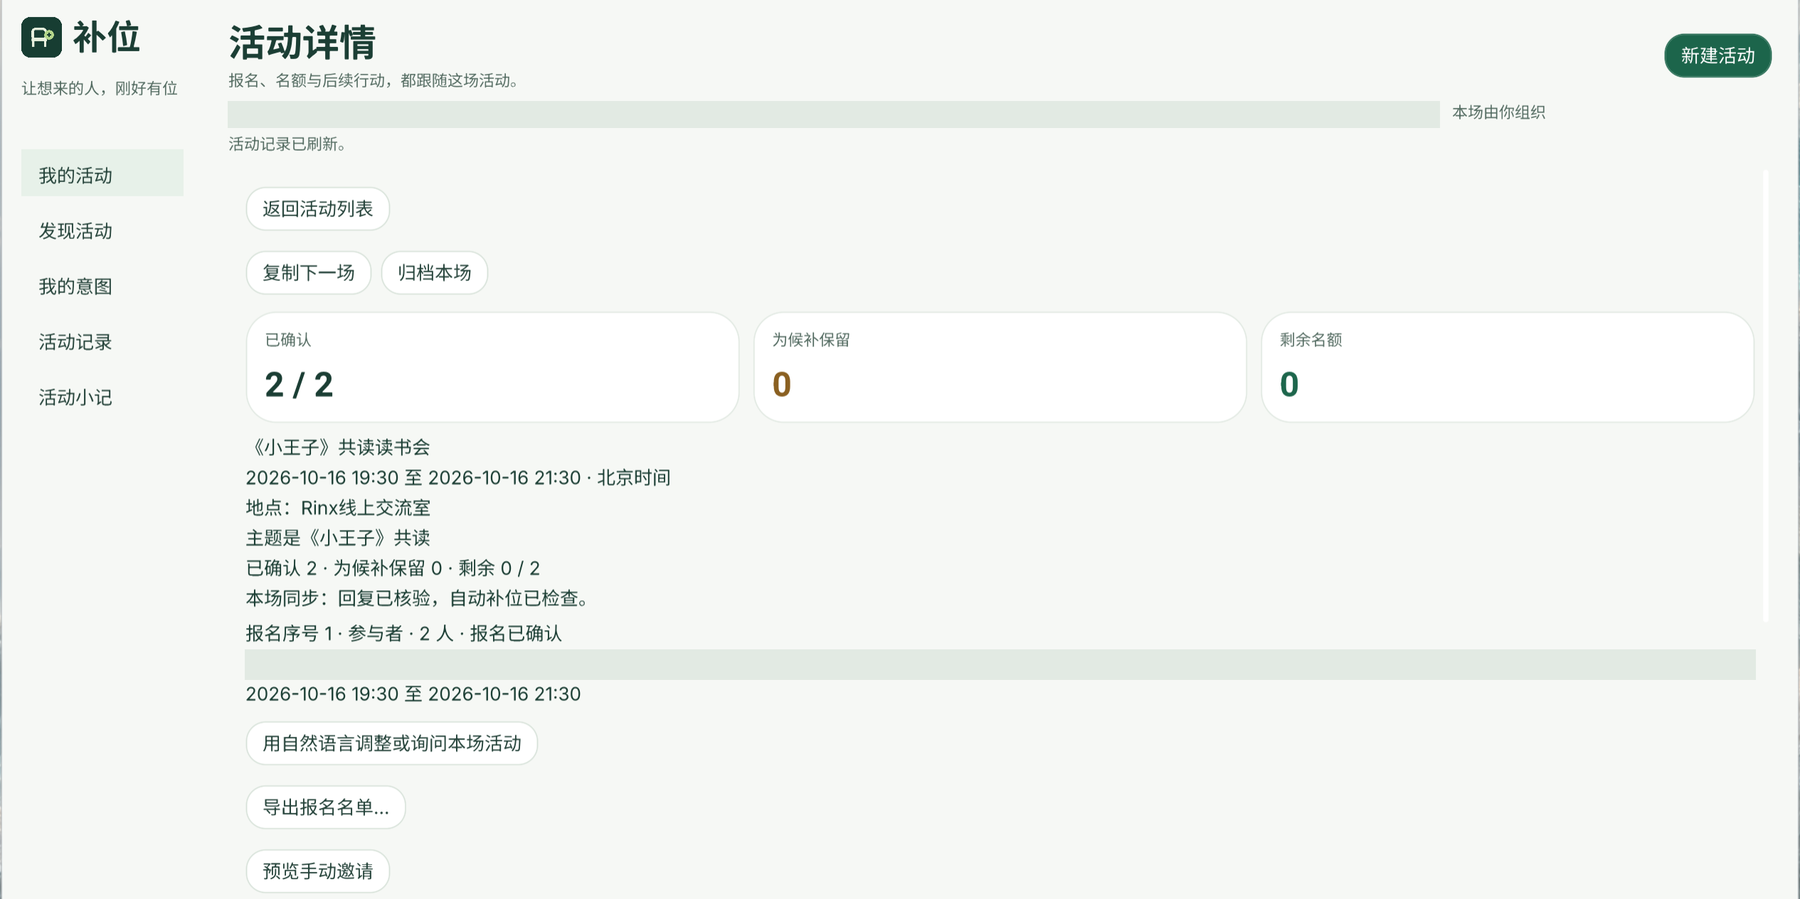
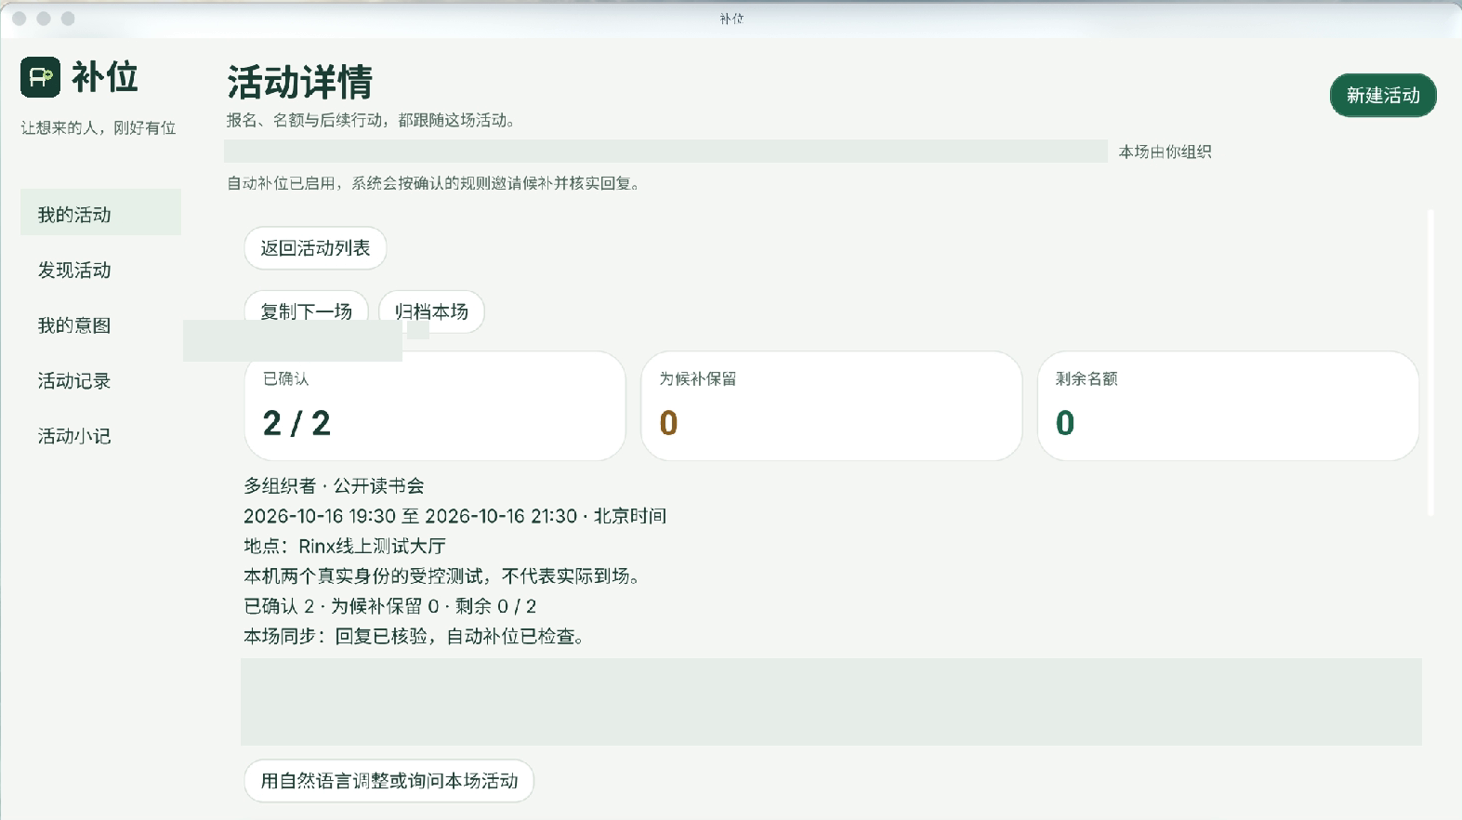
Bind native walkthrough and verified results for v0.2.12 preview

diff --git a/tools/continuous_capture.py b/tools/continuous_capture.py
@@ -39,7 +39,10 @@ def frame(ui, role, caption, elapsed, font_path):
     from PIL import Image, ImageDraw, ImageFont
     tree = ui.tree()
     window = ui.window(tree)
-    picture = Image.open(io.BytesIO(ui.get("g", w=window["i"], raw=1))).convert("RGB")
+    # Bound native PNG work to the delivered video's width. Capturing a high-DPI
+    # window at full resolution only to shrink it can stall the capture cadence.
+    scale = min(1.0, 1600 / window.get("px", window["sz"])[0])
+    picture = Image.open(io.BytesIO(ui.get("g", w=window["i"], scale=scale, raw=1))).convert("RGB")
     width, height = window["sz"]
     sx, sy = picture.width/width, picture.height/height
     draw = ImageDraw.Draw(picture)
@@ -73,7 +76,7 @@ def record(args):
     for client in clients.values(): client.window()
     args.output.parent.mkdir(parents=True, exist_ok=True)
     args.metadata.parent.mkdir(parents=True, exist_ok=True)
-    command = [str(args.ffmpeg), "-hide_banner", "-loglevel", "error", "-f", "rawvideo", "-pix_fmt", "rgb24", "-s", "1600x1000", "-framerate", str(args.fps), "-i", "pipe:0", "-an", "-c:v", "libx264", "-preset", "veryfast", "-crf", "20", "-pix_fmt", "yuv420p", "-movflags", "+faststart", str(args.output)]
+    command = [str(args.ffmpeg), "-hide_banner", "-loglevel", "error", "-f", "rawvideo", "-pix_fmt", "rgb24", "-s", "1600x1000", "-framerate", str(args.fps), "-i", "pipe:0", "-an", "-c:v", "libx264", "-threads", "2", "-preset", "ultrafast", "-crf", "20", "-pix_fmt", "yuv420p", "-movflags", "+faststart", str(args.output)]
     process = subprocess.Popen(command, stdin=subprocess.PIPE, stderr=subprocess.PIPE)
     started = time.monotonic()
     samples = []

diff --git a/README.en.md b/README.en.md
@@ -14,9 +14,9 @@ Participants use their own Rinx identities. Verified server receipts distinguish
 - Follow suggestions through persistent tasks. Editing or pausing a goal invalidates its unexecuted previews while preserving existing receipts.
 - Use AI beside each task for editable activity drafts, sign-up clarification and summaries grounded in verified records.
 
-[Download for Windows](https://github.com/WeiR-h/buwei/releases/latest) · [Chinese guide](docs/FIRST-RUN.md) · [Privacy](docs/PRIVACY.md) · [Support](https://github.com/WeiR-h/buwei/issues)
+[Download v0.2.12 Windows preview](https://github.com/WeiR-h/buwei/releases/tag/v0.2.12) · [Stable release](https://github.com/WeiR-h/buwei/releases/latest) · [Chinese guide](docs/FIRST-RUN.md) · [Privacy](docs/PRIVACY.md) · [Support](https://github.com/WeiR-h/buwei/issues)
 
-**v0.2.11** uses the official desktop RC6 host, a clearer activity workspace, focused planning and contextual registration controls. Each account can organize its own activities and join other people's activities.
+**v0.2.12 preview** uses the official desktop RC6 host and displays the exact dates, availability and party size in each sign-up draft. It adds faster journal recovery queries and independently reproducible verification records. Each account can organize its own activities and join other people's activities.
 
 Organizers can describe an activity, edit its plan, confirm creation, and separately confirm community publication. Members select a published activity, request room access, and confirm their own registration. CSV exports use a verified organizer snapshot and protect text from spreadsheet formula interpretation. See the [community guide](docs/COMMUNITY.md).
 
@@ -24,7 +24,7 @@ BuWei uses pinned official OctoSense desktop RC6 and Rinx 1.1.0 sources and ship
 
 Optional Windows tray duty continues synchronization while the computer and application run with valid authorization. Explicit feedback updates only the chosen scope. Recurring activity drafts require fresh confirmation of their date, location and capacity. [Goals and assistance](docs/INTENTIONS.md) · [Submission and historical versions](docs/SUBMISSION.md).
 
-[Watch the 110-second walkthrough](https://github.com/WeiR-h/buwei/releases/download/v0.2.11/BuWei-v0.2.11-Demo.mp4): two actual Rinx identities complete planning, publication, activity selection, registration, automatic invitation, acceptance, roster export and cancellation. Runtime requirements: Windows 10/11 x64 and the Microsoft Visual C++ v14 x64 runtime.
+[Watch the 60-second continuous native recording](https://github.com/WeiR-h/buwei/releases/download/v0.2.12/BuWei-v0.2.12-demo.mp4): two real local Rinx accounts complete a natural-language sign-up, rule-based invitation, personal acceptance and final organizer verification. Capture preserves elapsed time and covers private identifiers. [Planning, community publication and export walkthrough (v0.2.11)](https://github.com/WeiR-h/buwei/releases/download/v0.2.11/BuWei-v0.2.11-Demo.mp4). Runtime requirements: Windows 10/11 x64 and the Microsoft Visual C++ v14 x64 runtime.
 
 ## Three steps to start
 

diff --git a/README.md b/README.md
@@ -27,9 +27,9 @@
 
 ## 下载
 
-[下载正式 Windows 版本](https://github.com/WeiR-h/buwei/releases/latest)
+[下载 v0.2.12 Windows 验证版](https://github.com/WeiR-h/buwei/releases/tag/v0.2.12) · [正式版](https://github.com/WeiR-h/buwei/releases/latest)
 
-**v0.2.11** 使用官方桌面 RC6，提供统一活动工作台、自然语言策划和按本场身份显示的报名操作。
+**v0.2.12 验证版**使用官方桌面 RC6，直接展示本次报名草稿的日期、时段与同行人数，增加恢复查询优化和可独立复跑的验证记录。
 
 应用使用官方 OctoSense 桌面 RC6 与 Rinx 1.1.0 的固定源码，提供组织者和参与者入口。成员使用自己的 Rinx 身份报名和回复，组织者核验结果后显示最终报名状态。
 
@@ -39,7 +39,9 @@
 
 [活动策划、社群报名与名单导出](docs/COMMUNITY.md)
 
-[110 秒完整操作演示](https://github.com/WeiR-h/buwei/releases/download/v0.2.11/BuWei-v0.2.11-Demo.mp4)：实际双账号完成策划、发布、挑选、报名、自动邀请、接受、名单导出与取消。
+[60 秒连续原生实录](https://github.com/WeiR-h/buwei/releases/download/v0.2.12/BuWei-v0.2.12-demo.mp4)：本机两个真实账号完成自然语言报名、规则邀请、本人接受与组织者最终核验。画面按实际时间连续采集，私密标识已遮盖。
+
+[策划、社群发布与导出流程演示（v0.2.11）](https://github.com/WeiR-h/buwei/releases/download/v0.2.11/BuWei-v0.2.11-Demo.mp4) · [源码、服务与恢复验证记录](docs/VERIFICATION.md)
 
 运行环境：Windows 10/11 x64，微软 Visual C++ v14 x64 运行库。
 发布形式为 Windows 原生宿主扩展。

diff --git a/CHANGELOG.md b/CHANGELOG.md
@@ -1,6 +1,6 @@
 # 版本记录
 
-## v0.2.12 预览
+## v0.2.12 验证预览
 
 - 增加无需账号和桌面依赖的生产核心复验入口，Windows/Linux 使用与桌面版相同版本的固定依赖。
 - 回执历史按应用和账号建立索引，已有操作编号、状态与恢复顺序保持不变；提供相同历史数据上的前后测量。
@@ -9,6 +9,7 @@
 - 增加六项真实服务回执丢失、崩溃与重启恢复记录；只读身份查询使用有上限的重试，业务发送保持原编号核实。
 - 完整宿主在独立 Windows 环境构建，运行包再由另一台干净运行器下载并启动验证。
 - 自然语言报名草稿直接显示日期、时段与同行人数；尚无草稿时收起应用建议入口，避免旧提示造成误解。
+- 提供 60 秒连续原生实录，展示本人报名、规则邀请、接受与组织者核验；完整画面保持原时间，私密标识已遮盖。
 
 ## v0.2.11
 
